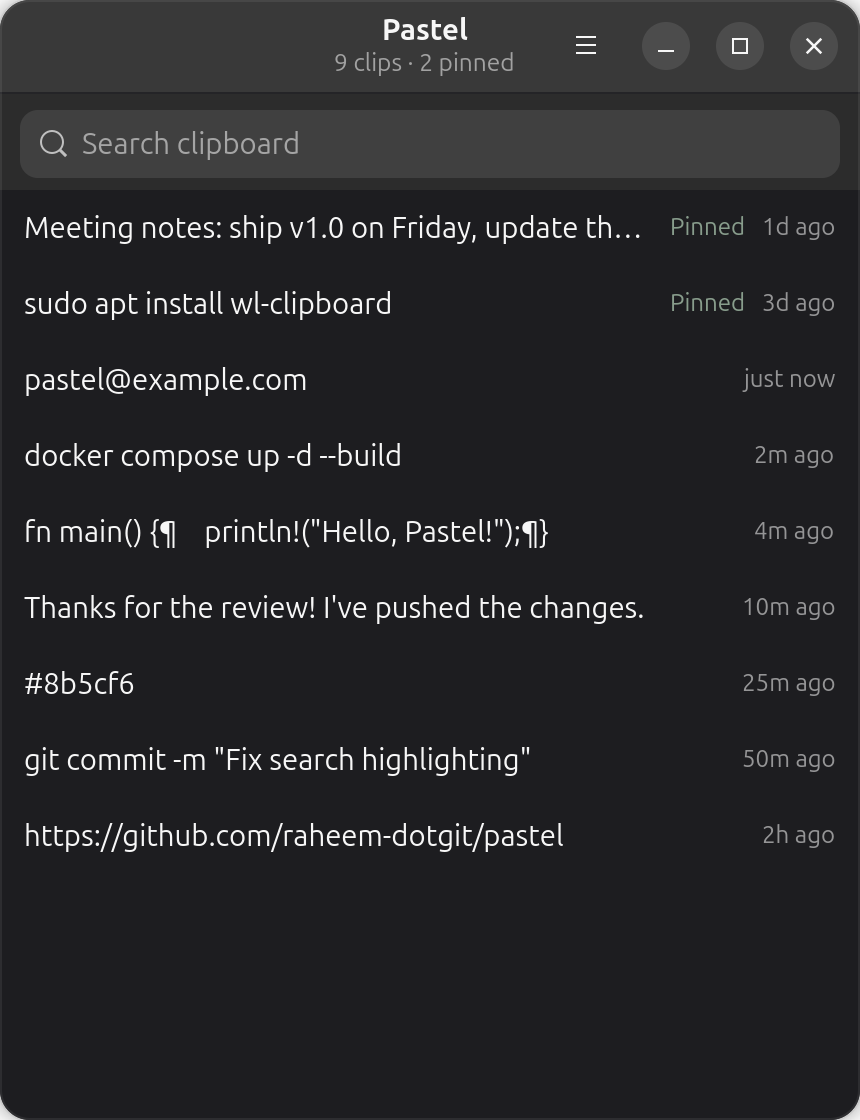
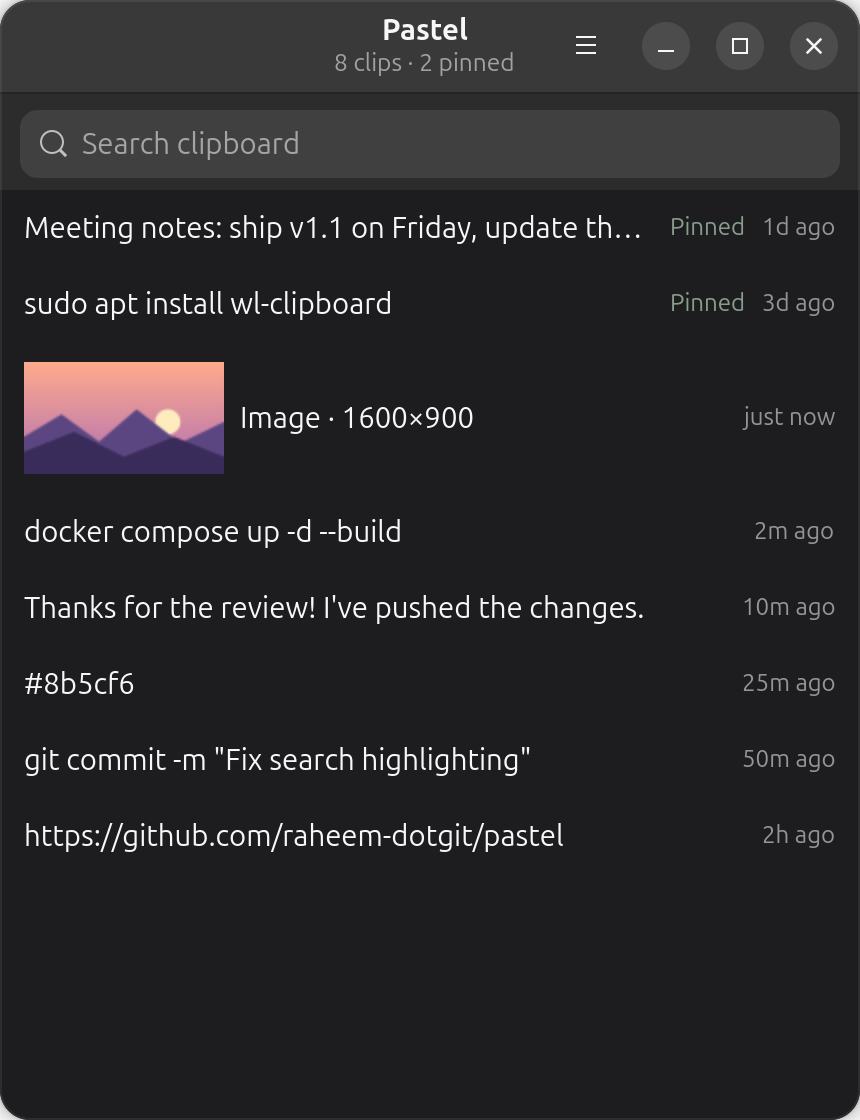
README: mention image history and refresh screenshots (#6)
- Intro mentions text, images and screenshots
- Comparison table gains a Saves images row (from each project's README)
- Screenshots now include an image clip

diff --git a/README.md b/README.md
@@ -7,14 +7,15 @@
 
 **Pastel** is a fast, lightweight clipboard manager for Linux that works like
 **Windows clipboard history (Win+V)**. Press **Super+V** to see everything
-you've copied, search it, pin favorites, and paste again. It's a native
+you've copied (text, images and screenshots), search it, pin favorites, and
+paste again. It's a native
 GTK4 + libadwaita app written in Rust, built for **Ubuntu**, **GNOME** and
 **Wayland**.
 
 <p align="center">
   <picture>
     <source media="(prefers-color-scheme: dark)" srcset="docs/screenshot-dark.png">
-    <img src="docs/screenshot-light.png" width="430" alt="Pastel clipboard manager window showing searchable clipboard history with pinned clips on Ubuntu GNOME">
+    <img src="docs/screenshot-light.png" width="430" alt="Pastel clipboard manager window showing searchable text and image clipboard history with pinned clips on Ubuntu GNOME">
   </picture>
 </p>
 
@@ -39,6 +40,7 @@ GTK4 + libadwaita app written in Rust, built for **Ubuntu**, **GNOME** and
 | Interface | GTK4 + libadwaita | Qt | GTK 4 app + GNOME Shell extension | none; uses a picker such as wofi |
 | Default shortcut to open history | Super+V | configurable | Ctrl+Alt+H | bind it yourself |
 | Desktops | GNOME, wlroots (Sway, Hyprland) | Linux, Windows, macOS¹ | GNOME | wlroots (Sway etc.) |
+| Saves images | ✅ | ✅ | ✅ | ❌ |
 | Records copies while hidden on GNOME | ❌ latest copy only² | ✅ via its Shell extension | ✅ | n/a |
 
 ¹ On Wayland, CopyQ monitors the clipboard natively on KDE Plasma and
